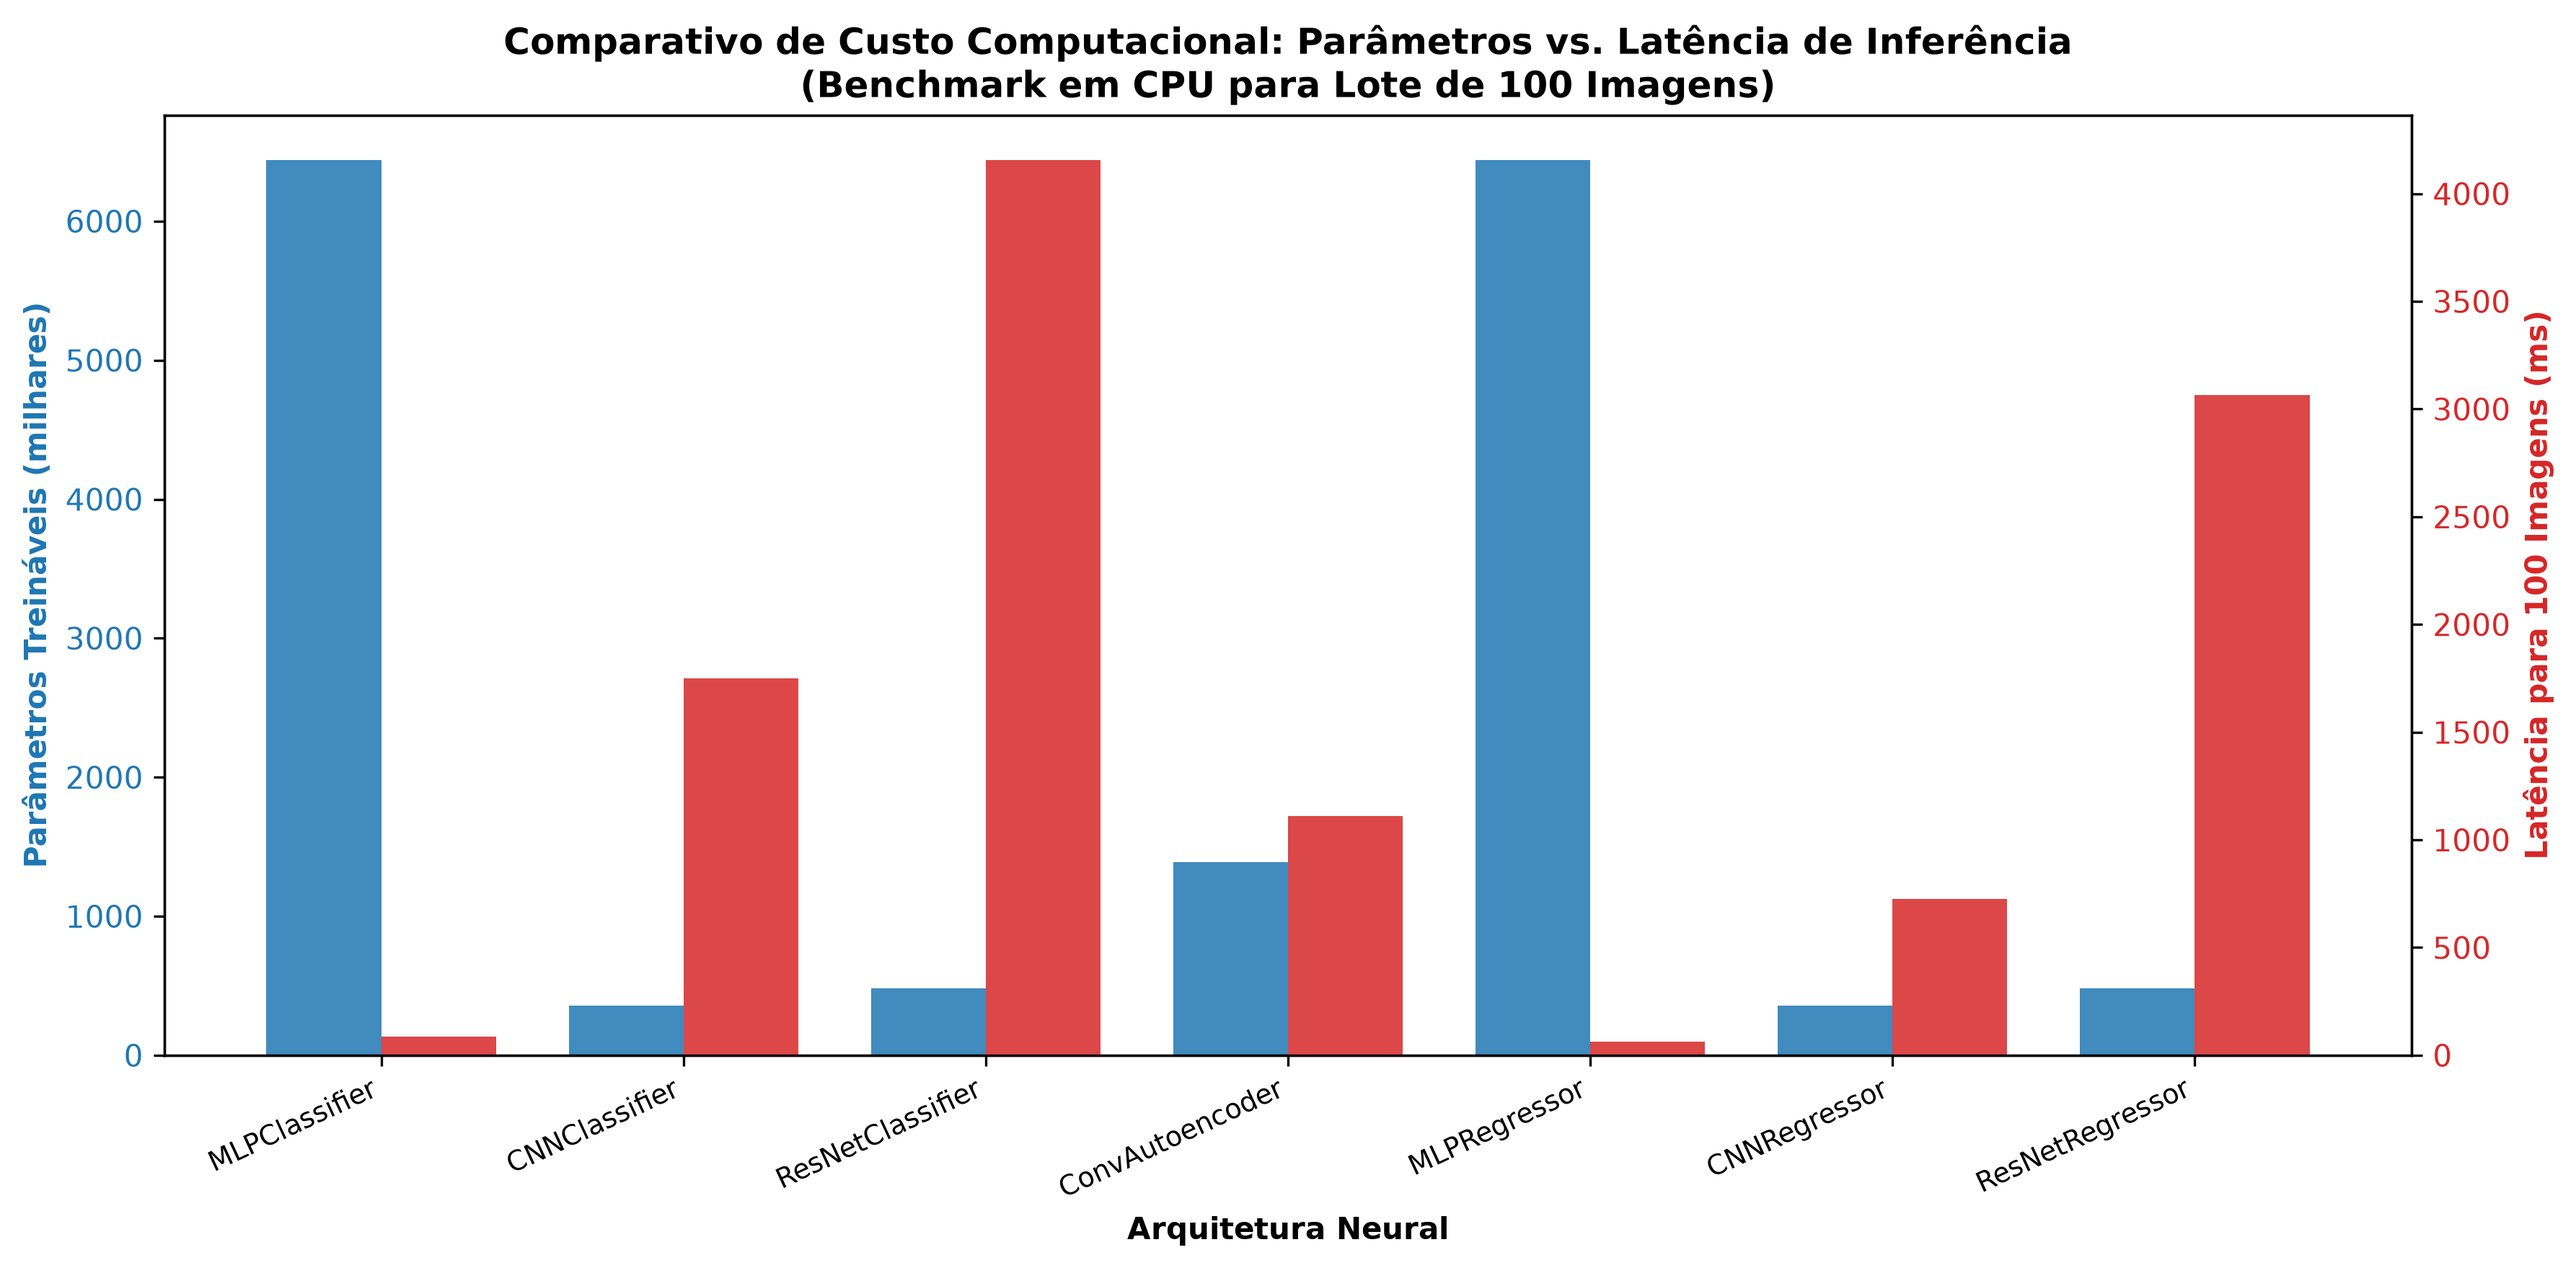
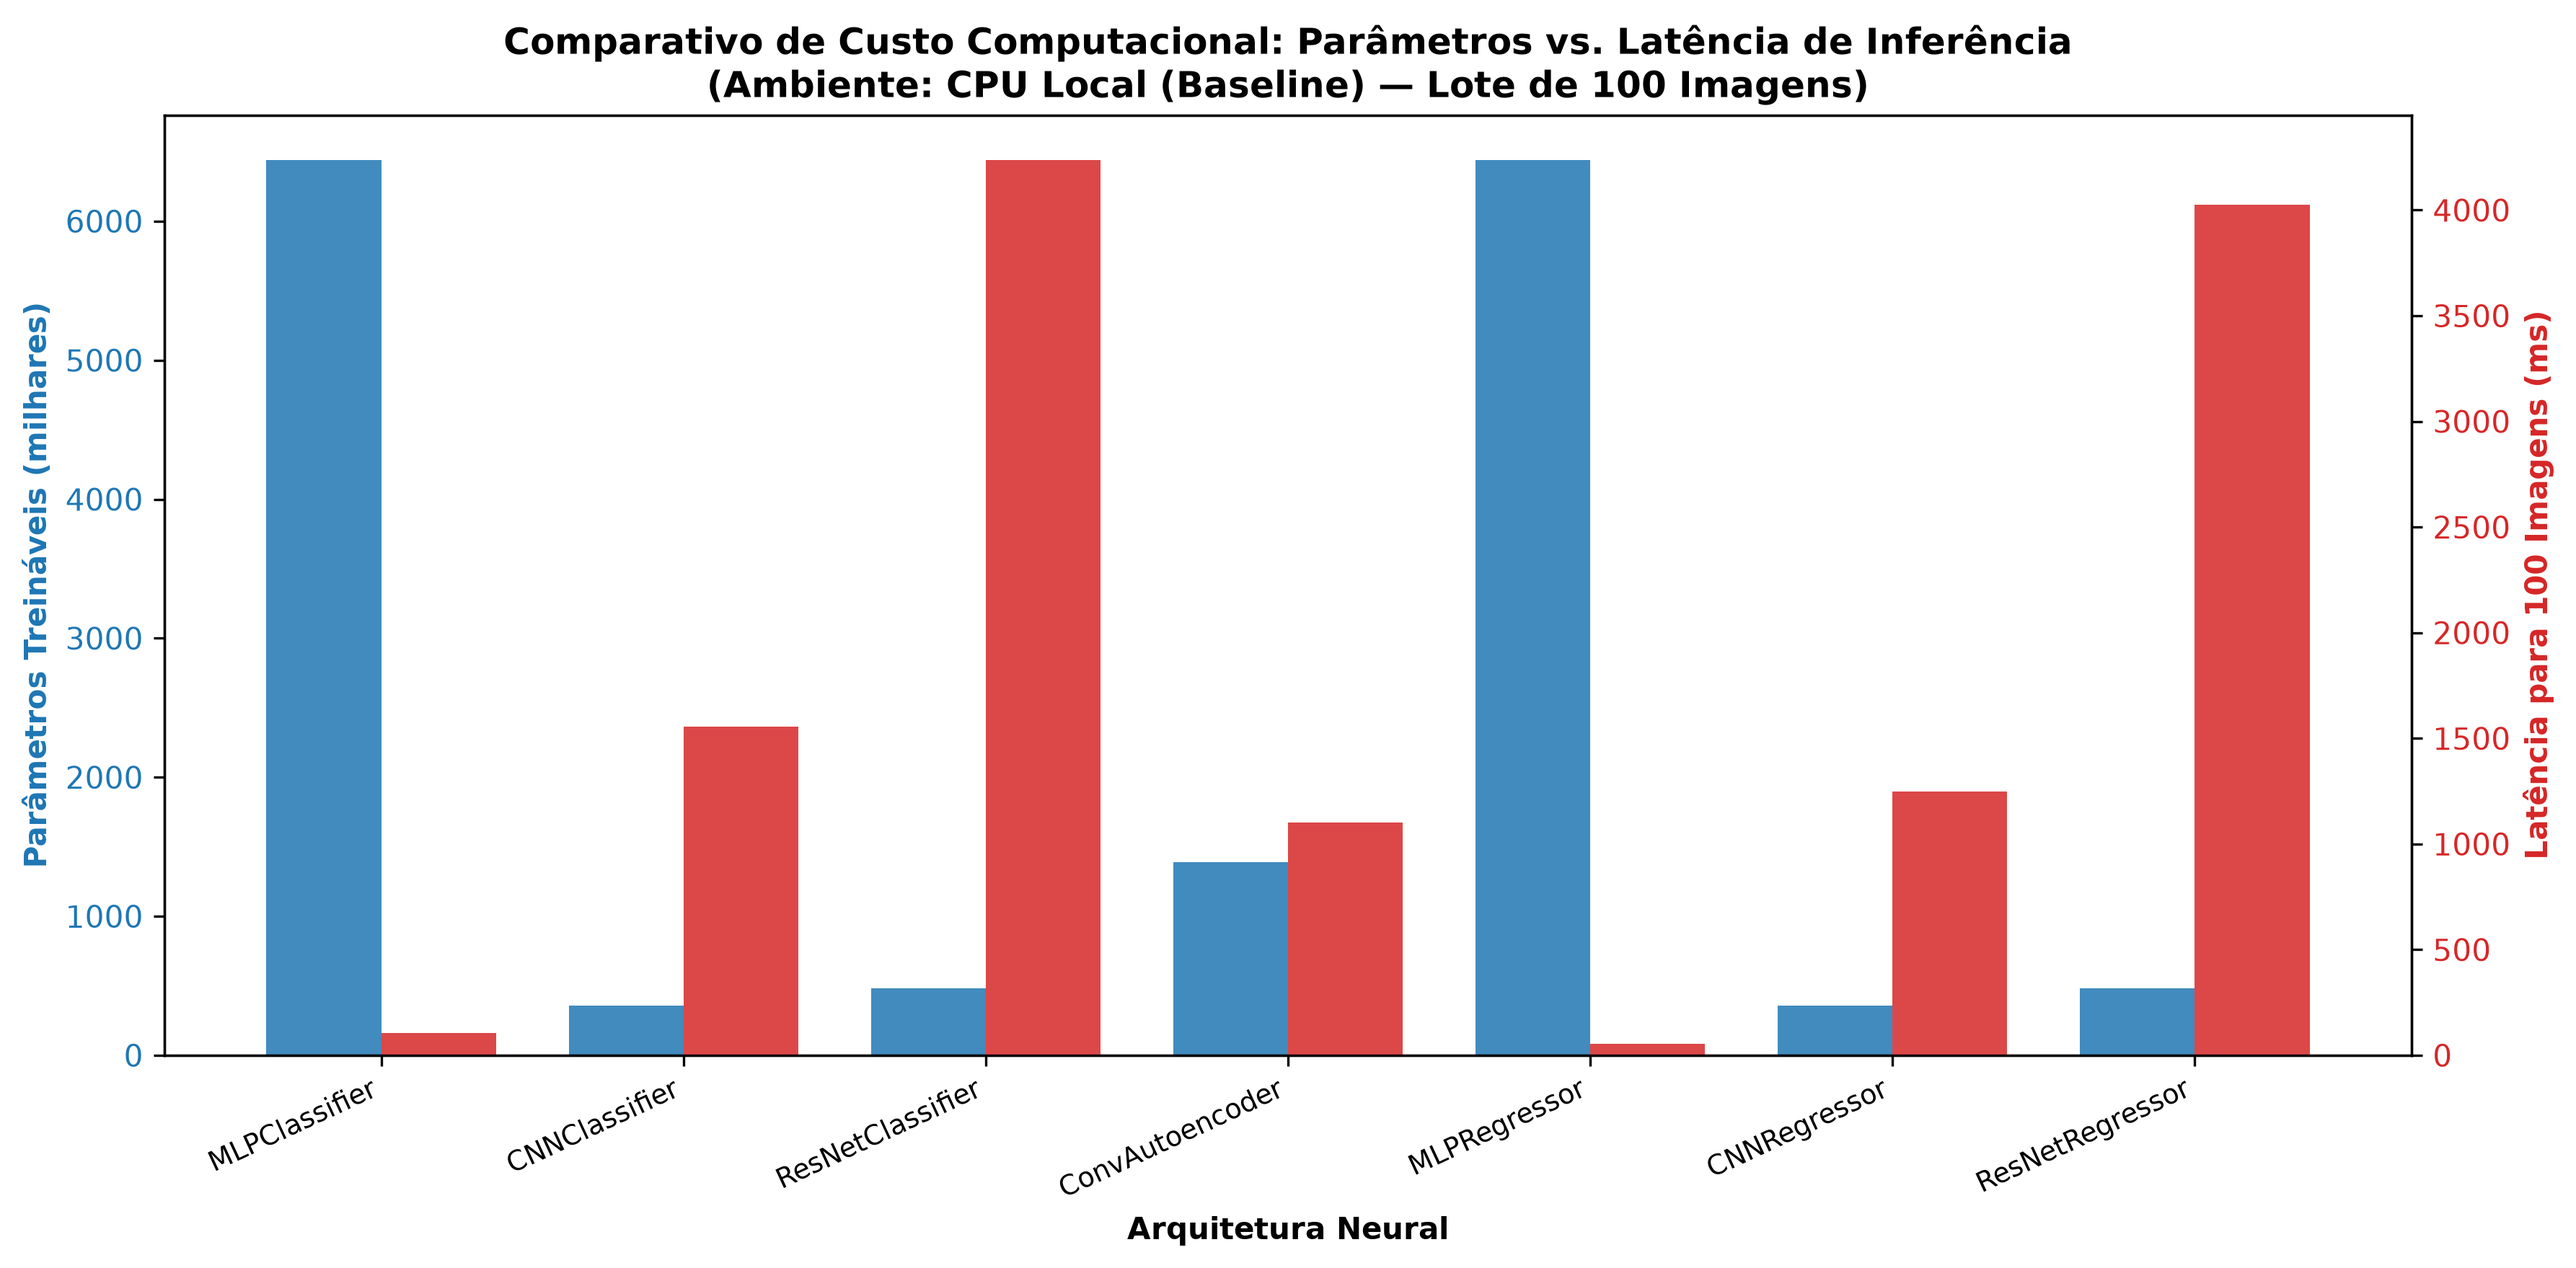
feat: enable CUDA synchronization, hardware speedup benchmarks, and Day 3 execution in SLURM job

diff --git a/src/benchmark_computational_cost.py b/src/benchmark_computational_cost.py
@@ -26,18 +26,28 @@ REPORTS_DIR = PROJECT_ROOT / "reports"
 FIGURES_DIR = REPORTS_DIR / "figures"
 
 
-def measure_inference_latency(model: torch.nn.Module, sample_batch: torch.Tensor, runs: int = 30) -> float:
-    """Mede a latência média (ms) para processar um lote de 100 imagens com warm-up."""
+def measure_latency_device(model: torch.nn.Module, sample_batch: torch.Tensor, device: torch.device, runs: int = 30) -> float:
+    """Mede a latência média (ms) para processar 100 imagens com warm-up e sincronização explícita."""
+    model = model.to(device)
+    batch = sample_batch.to(device)
     model.eval()
+    is_cuda = device.type == "cuda"
+
     with torch.no_grad():
-        # Warm-up de 5 iterações para estabilizar pipeline/caches
+        # Warm-up de 5 iterações para estabilizar kernels e caches
         for _ in range(5):
-            _ = model(sample_batch)
+            _ = model(batch)
+        if is_cuda:
+            torch.cuda.synchronize()
 
         latencies = []
         for _ in range(runs):
+            if is_cuda:
+                torch.cuda.synchronize()
             t0 = time.perf_counter()
-            _ = model(sample_batch)
+            _ = model(batch)
+            if is_cuda:
+                torch.cuda.synchronize()
             latencies.append((time.perf_counter() - t0) * 1000.0)
 
     return float(np.mean(latencies))
@@ -47,7 +57,10 @@ def run_computational_benchmark():
     REPORTS_DIR.mkdir(parents=True, exist_ok=True)
     FIGURES_DIR.mkdir(parents=True, exist_ok=True)
 
-    print("Iniciando Benchmark de Custo Computacional (Slide 14)...")
+    has_cuda = torch.cuda.is_available()
+    device_name = torch.cuda.get_device_name(0) if has_cuda else "CPU Local"
+    print(f"Iniciando Benchmark de Custo Computacional (Slide 14)...")
+    print(f" -> Hardware Detectado: {device_name} (CUDA Ativo: {has_cuda})")
 
     # Lote sintético padronizado de 100 thumbnails (64x64x3)
     batch_64 = torch.randn(100, 3, 64, 64)
@@ -66,16 +79,31 @@ def run_computational_benchmark():
     for name, model, batch, task in models_to_test:
         params_trainable = sum(p.numel() for p in model.parameters() if p.requires_grad)
         model_size_mb = sum(p.numel() * p.element_size() for p in model.parameters()) / (1024 * 1024)
-        latency_ms = measure_inference_latency(model, batch, runs=30)
-        fps = (100.0 / (latency_ms / 1000.0))
+
+        # 1. Medição em CPU
+        latency_cpu = measure_latency_device(model, batch, torch.device("cpu"), runs=30)
+        fps_cpu = (100.0 / (latency_cpu / 1000.0))
+
+        # 2. Medição em GPU (quando disponível)
+        if has_cuda:
+            latency_gpu = measure_latency_device(model, batch, torch.device("cuda"), runs=30)
+            fps_gpu = (100.0 / (latency_gpu / 1000.0))
+            speedup = latency_cpu / max(latency_gpu, 1e-4)
+        else:
+            latency_gpu = latency_cpu
+            fps_gpu = fps_cpu
+            speedup = 1.0
 
         results.append({
             "Modelo": name,
             "Tarefa": task,
             "Parâmetros Treináveis": params_trainable,
             "Tamanho Memória (MB)": round(model_size_mb, 2),
-            "Latência 100 Imagens (ms)": round(latency_ms, 2),
-            "Throughput (FPS)": round(fps, 1)
+            "Latência CPU (ms)": round(latency_cpu, 2),
+            "Throughput CPU (FPS)": round(fps_cpu, 1),
+            "Latência A100 (ms)": round(latency_gpu, 2) if has_cuda else "N/A (CPU)",
+            "Throughput A100 (FPS)": round(fps_gpu, 1) if has_cuda else "N/A (CPU)",
+            "Speedup Hardware": f"{speedup:.1f}x" if has_cuda else "1.0x"
         })
 
     df = pd.DataFrame(results)
@@ -101,10 +129,11 @@ def run_computational_benchmark():
     ax2 = ax1.twinx()
     color2 = "#d62728"
     ax2.set_ylabel("Latência para 100 Imagens (ms)", color=color2, fontweight="bold")
-    bars2 = ax2.bar(indices + width/2, df["Latência 100 Imagens (ms)"], width, label="Latência (ms)", color=color2, alpha=0.85)
+    bars2 = ax2.bar(indices + width/2, df["Latência CPU (ms)"], width, label="Latência CPU (ms)", color=color2, alpha=0.85)
     ax2.tick_params(axis="y", labelcolor=color2)
 
-    plt.title("Comparativo de Custo Computacional: Parâmetros vs. Latência de Inferência\n(Benchmark em CPU para Lote de 100 Imagens)", fontweight="bold", fontsize=12)
+    title_hardware = f"Hardware: {device_name}" if has_cuda else "Ambiente: CPU Local (Baseline)"
+    plt.title(f"Comparativo de Custo Computacional: Parâmetros vs. Latência de Inferência\n({title_hardware} — Lote de 100 Imagens)", fontweight="bold", fontsize=12)
     plt.tight_layout()
 
     fig_path = FIGURES_DIR / "computational_cost_vs_accuracy.png"

diff --git a/src/analyze_embeddings.py b/src/analyze_embeddings.py
@@ -28,7 +28,7 @@ REPORTS_DIR = PROJECT_ROOT / "reports"
 FIGURES_DIR = REPORTS_DIR / "figures"
 DATA_DIR = PROJECT_ROOT / "data" / "processed"
 
-DEVICE = torch.device("cpu")  # Análise determinística e compatível localmente
+DEVICE = torch.device("cuda" if torch.cuda.is_available() else "cpu")
 
 
 def run_embedding_analysis():
